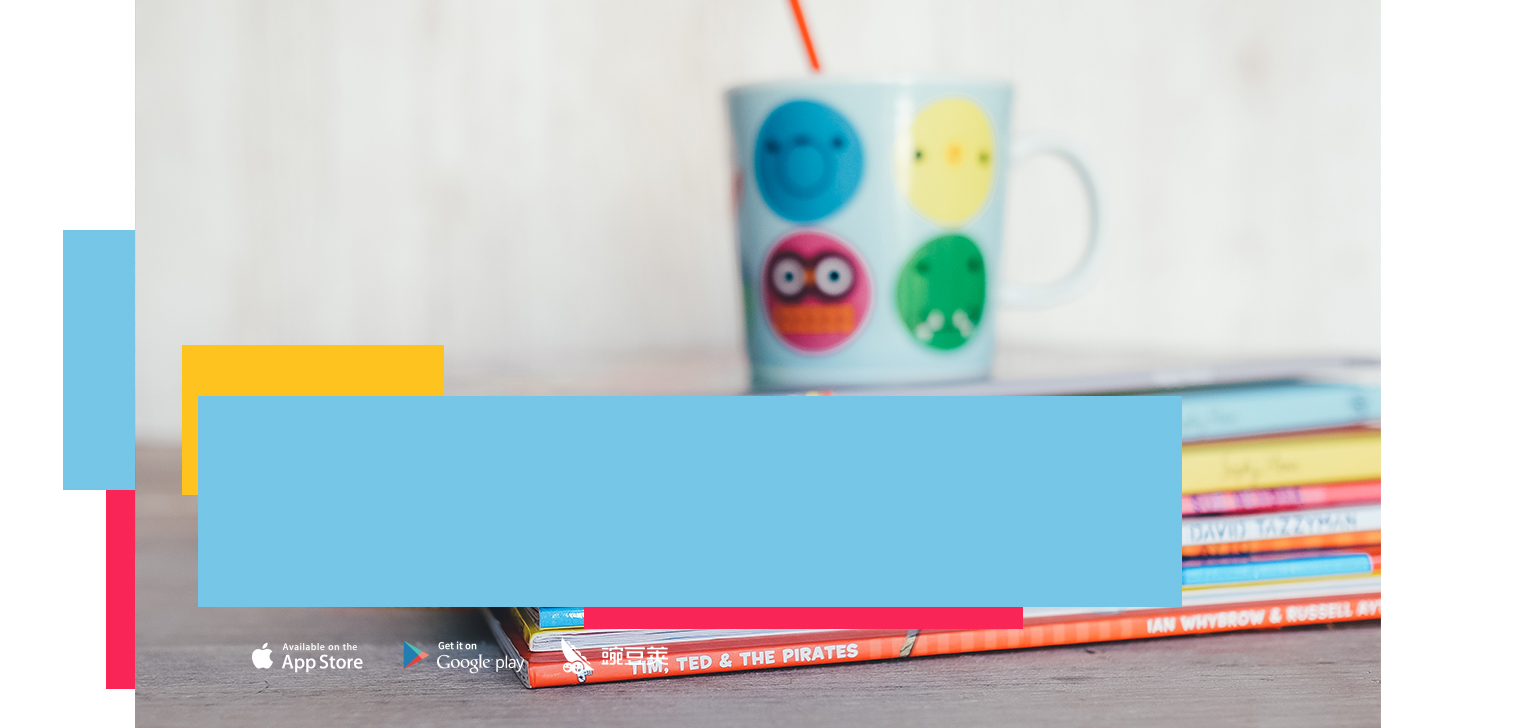
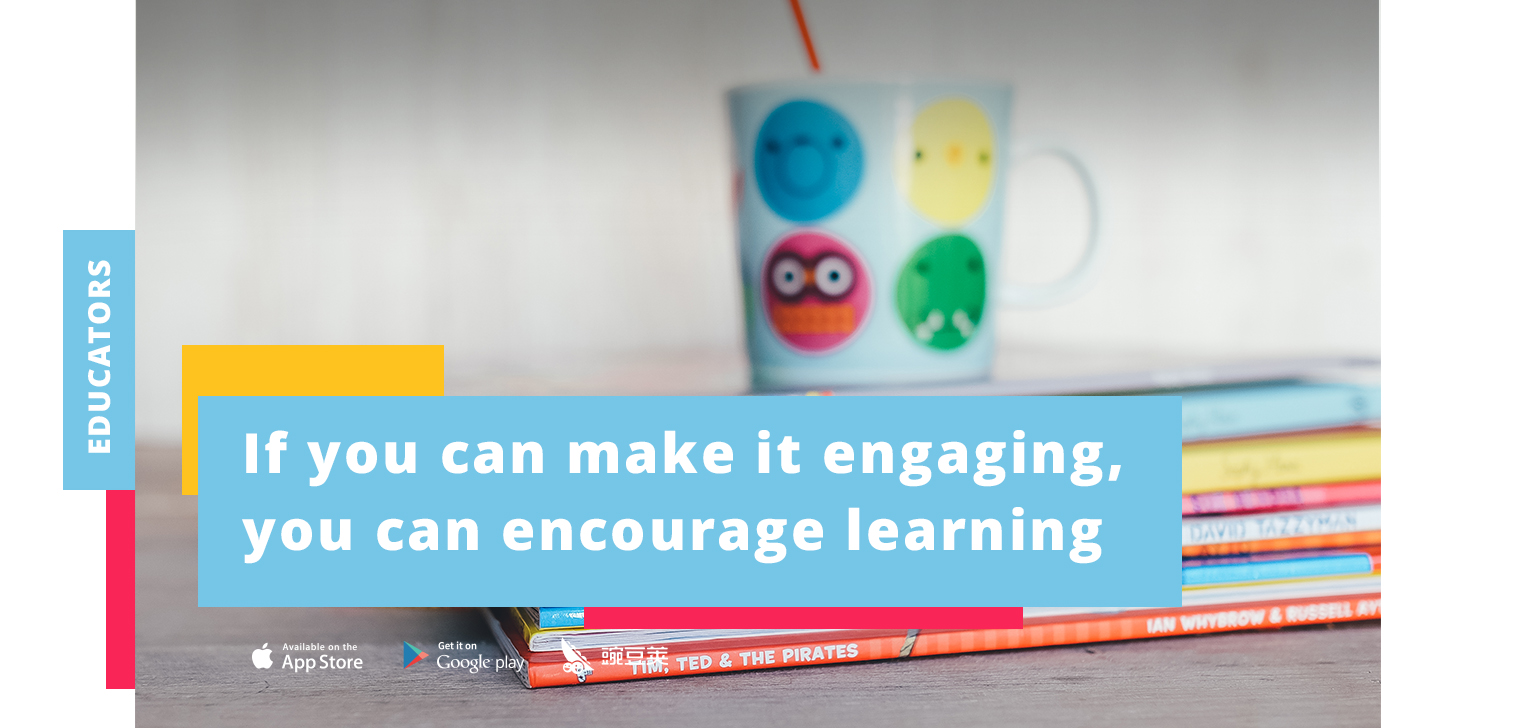
Slider updated

diff --git a/app/Http/Controllers/MainpagesController.php b/app/Http/Controllers/MainpagesController.php
@@ -116,57 +116,58 @@ class MainpagesController extends Controller
             $input['imagemedium'] = $imagemedium;
             $input['imagethumb'] = $imagethumb;
 
+        }
 
+        if($request->hasFile('itemimage')) {
             $itemimage = $request->file('itemimage');
-            $item2image = $request->file('item2image');
-            $item3image = $request->file('item3image');
-            $item4image = $request->file('item4image');
-            $item5image = $request->file('item5image');
-            $item6image = $request->file('item6image');
-
             $itempath = public_path() . '/assets/img/mainpages/items';
             $itemext = $itemimage->getClientOriginalExtension();
             $imageName = (rand(11111, 99999) . time()) . '.' . $itemext;
             $itemimage->move($itempath, $imageName);
             $input['itemimage'] = $imageName;
+        }
 
+        if($request->hasFile('item2image')) {
+            $item2image = $request->file('item2image');
             $itempath = public_path() . '/assets/img/mainpages/items';
             $itemext = $item2image->getClientOriginalExtension();
             $imageName = (rand(11111, 99999) . time()) . '.' . $itemext;
             $item2image->move($itempath, $imageName);
             $input['item2image'] = $imageName;
-
+        }
+        if($request->hasFile('item3image')) {
+            $item3image = $request->file('item3image');
             $itempath = public_path() . '/assets/img/mainpages/items';
             $itemext = $item3image->getClientOriginalExtension();
             $imageName = (rand(11111, 99999) . time()) . '.' . $itemext;
             $item3image->move($itempath, $imageName);
             $input['item3image'] = $imageName;
+        }
 
+        if($request->hasFile('item4image')) {
+            $item4image = $request->file('item4image');
             $itempath = public_path() . '/assets/img/mainpages/items';
             $itemext = $item4image->getClientOriginalExtension();
             $imageName = (rand(11111, 99999) . time()) . '.' . $itemext;
             $item4image->move($itempath, $imageName);
             $input['item4image'] = $imageName;
-
+        }
+        if($request->hasFile('item5image')) {
+            $item5image = $request->file('item5image');
             $itempath = public_path() . '/assets/img/mainpages/items';
             $itemext = $item5image->getClientOriginalExtension();
             $imageName = (rand(11111, 99999) . time()) . '.' . $itemext;
             $item5image->move($itempath, $imageName);
             $input['item5image'] = $imageName;
-
+        }
+        if($request->hasFile('item6image')) {
+            $item6image = $request->file('item6image');
             $itempath = public_path() . '/assets/img/mainpages/items';
             $itemext = $item6image->getClientOriginalExtension();
             $imageName = (rand(11111, 99999) . time()) . '.' . $itemext;
             $item6image->move($itempath, $imageName);
             $input['item6image'] = $imageName;
-
-
-
-
-
-
         }
-
 
         Mainpages::create($input);
 
@@ -270,52 +271,59 @@ class MainpagesController extends Controller
             $input['image'] = $image;
             $input['imagemedium'] = $imagemedium;
             $input['imagethumb'] = $imagethumb;
+        }
 
+
+        if($request->hasFile('itemimage')) {
             $itemimage = $request->file('itemimage');
-            $item2image = $request->file('item2image');
-            $item3image = $request->file('item3image');
-            $item4image = $request->file('item4image');
-            $item5image = $request->file('item5image');
-            $item6image = $request->file('item6image');
-
             $itempath = public_path() . '/assets/img/mainpages/items';
             $itemext = $itemimage->getClientOriginalExtension();
             $imageName = (rand(11111, 99999) . time()) . '.' . $itemext;
             $itemimage->move($itempath, $imageName);
             $input['itemimage'] = $imageName;
+        }
 
+        if($request->hasFile('item2image')) {
+            $item2image = $request->file('item2image');
             $itempath = public_path() . '/assets/img/mainpages/items';
             $itemext = $item2image->getClientOriginalExtension();
             $imageName = (rand(11111, 99999) . time()) . '.' . $itemext;
             $item2image->move($itempath, $imageName);
             $input['item2image'] = $imageName;
-
+        }
+        if($request->hasFile('item3image')) {
+            $item3image = $request->file('item3image');
             $itempath = public_path() . '/assets/img/mainpages/items';
             $itemext = $item3image->getClientOriginalExtension();
             $imageName = (rand(11111, 99999) . time()) . '.' . $itemext;
             $item3image->move($itempath, $imageName);
             $input['item3image'] = $imageName;
+        }
 
+        if($request->hasFile('item4image')) {
+            $item4image = $request->file('item4image');
             $itempath = public_path() . '/assets/img/mainpages/items';
             $itemext = $item4image->getClientOriginalExtension();
             $imageName = (rand(11111, 99999) . time()) . '.' . $itemext;
             $item4image->move($itempath, $imageName);
             $input['item4image'] = $imageName;
-
+        }
+        if($request->hasFile('item5image')) {
+            $item5image = $request->file('item5image');
             $itempath = public_path() . '/assets/img/mainpages/items';
             $itemext = $item5image->getClientOriginalExtension();
             $imageName = (rand(11111, 99999) . time()) . '.' . $itemext;
             $item5image->move($itempath, $imageName);
             $input['item5image'] = $imageName;
-
+        }
+        if($request->hasFile('item6image')) {
+            $item6image = $request->file('item6image');
             $itempath = public_path() . '/assets/img/mainpages/items';
             $itemext = $item6image->getClientOriginalExtension();
             $imageName = (rand(11111, 99999) . time()) . '.' . $itemext;
             $item6image->move($itempath, $imageName);
             $input['item6image'] = $imageName;
-
         }
-
 
         $mainpage->fill($input)->save();
 

diff --git a/resources/views/main/mainpages.blade.php b/resources/views/main/mainpages.blade.php
@@ -43,17 +43,7 @@
                                          data-bgposition="center top" data-bgrepeat="no-repeat" data-bgfit="cover">
 
 
-                                    <!-- LAYER NR. 3 -->
-                                    <div class="tp-caption sfb fadeout medium_white text-bottom"
-                                         data-x="left"
-                                         data-y="190"
-                                         data-speed="500"
-                                         data-start="1300"
-                                         data-easing="easeOutQuad"
-                                         data-endspeed="600">
-                                    </div>
-                                    <div class="slidertitle hidden-md hidden-sm hidden-xs">{!! $mainpage->title !!}</div>
-                                    <div class="mainpages-slider">{!! strip_tags($mainpage->sliderdescription) !!}</div>
+
                                 </li>
                                 <!-- slide 1 end -->
 
